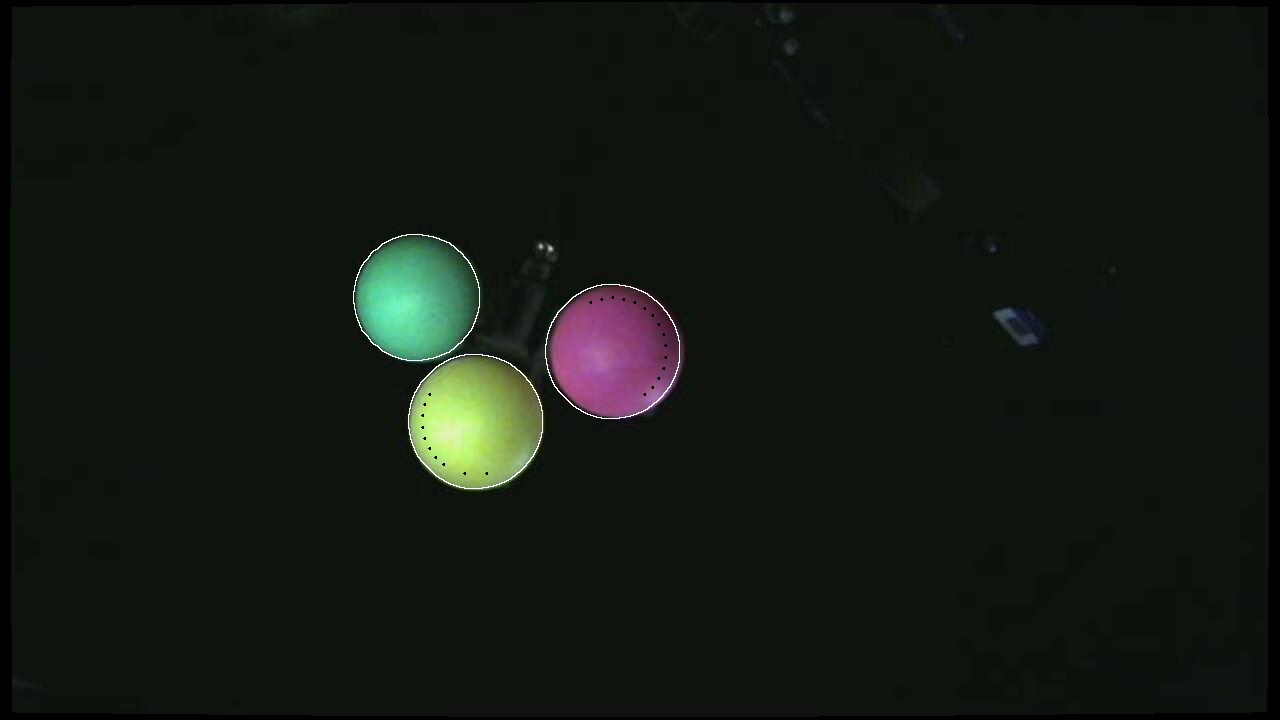
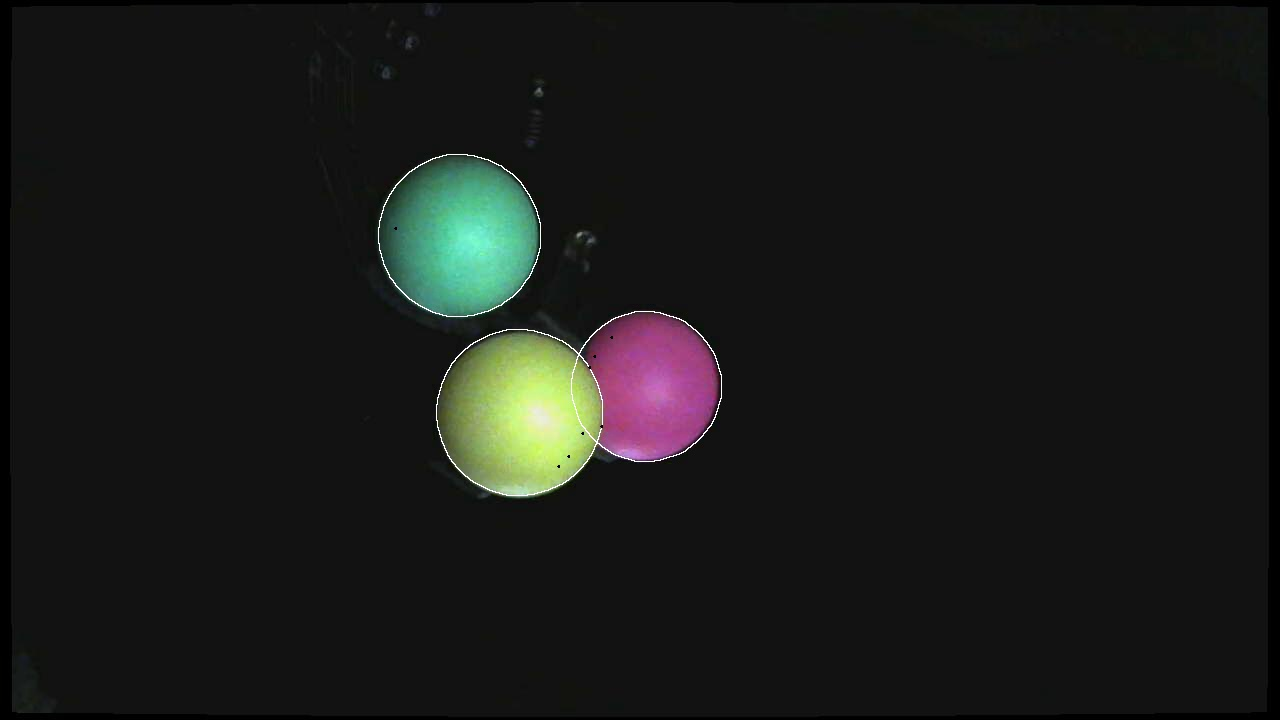
circle center decay version

Changed region(s): [[0.25, 0.2139, 0.5625, 0.7028], [0.7812, 0.4278, 0.8125, 0.4889]]

diff --git a/CV/cv_part/func_circle_detect.py b/CV/cv_part/func_circle_detect.py
@@ -35,7 +35,7 @@ def circle_center_detect_single_ball (img, showplot, circle_radius_min, circle_r
 
     h, w = img.shape[:2]
     
-    img = cv2.GaussianBlur(img, (0,0), 1)
+#    img = cv2.GaussianBlur(img, (0,0), 1)
 
     red = np.float32(img[:,:,2])
     green = np.float32(img[:,:,1])
@@ -57,17 +57,21 @@ def circle_center_detect_single_ball (img, showplot, circle_radius_min, circle_r
     for i in range(6):
         gray_gauss_sum += np.float32(cv2.GaussianBlur(gray, (0,0), i+1))
     gray_gauss_sum = np.uint8(gray_gauss_sum/(i+1))
-    cv2.imshow("gray_gauss_sum",gray_gauss_sum)
-    cv2.waitKey(0)
-    cv2.destroyAllWindows() 
+    
+    if showplot == 1:
+        cv2.imshow("gray_gauss_sum",gray_gauss_sum)
+        cv2.waitKey(0)
+        cv2.destroyAllWindows() 
 
     canny_edge = cv2.Canny(cv2.GaussianBlur(gray_gauss_sum, (0,0), 2),50,50)
     combine = np.zeros((h,w,3))
     for i in range(3):
         combine[:,:,i] += (np.float32(canny_edge)+np.float32(img[:,:,i])).clip(min=0,max=255)
-    cv2.imshow("canny on origin",np.uint8(combine))
-    cv2.waitKey(0)
-    cv2.destroyAllWindows() 
+        
+    if showplot == 1:
+        cv2.imshow("canny on origin",np.uint8(combine))
+        cv2.waitKey(0)
+        cv2.destroyAllWindows() 
 
     if (idx_cam == 0) or (idx_cam == 1):
         channel_ball_2 = np.uint8((3*(red-green)).clip(min=0,max=255)) # red
@@ -93,6 +97,12 @@ def circle_center_detect_single_ball (img, showplot, circle_radius_min, circle_r
     channel_ball_0 = cv2.GaussianBlur(channel_ball_0, (0,0), 1)
     channel_ball_1 = cv2.GaussianBlur(channel_ball_1, (0,0), 1)
     channel_ball_2 = cv2.GaussianBlur(channel_ball_2, (0,0), 1)
+    
+    channel_ball_0 = np.uint8(((np.float32(channel_ball_0)-75*np.ones((h,w)))*255).clip(min=0,max=255))
+    channel_ball_1 = np.uint8(((np.float32(channel_ball_1)-75*np.ones((h,w)))*255).clip(min=0,max=255))
+    channel_ball_2 = np.uint8(((np.float32(channel_ball_2)-75*np.ones((h,w)))*255).clip(min=0,max=255))
+    
+
 
 
 ###############################################################    
@@ -100,6 +110,10 @@ def circle_center_detect_single_ball (img, showplot, circle_radius_min, circle_r
         cv2.imshow("green",channel_ball_0)
         cv2.imshow("yellow",channel_ball_1)
         cv2.imshow("red",channel_ball_2)
+        
+        cv2.imwrite("0green_blured_canny.jpg",channel_ball_0)
+        cv2.imwrite("0yellow_blured_canny.jpg",channel_ball_1)
+        cv2.imwrite("0red_blured_canny.jpg",channel_ball_2)
         #cv2.imshow("show",gray)
         cv2.waitKey(0)
         cv2.destroyAllWindows() 
@@ -149,6 +163,9 @@ def circle_center_detect_single_ball (img, showplot, circle_radius_min, circle_r
                 hough_para2 = hough_para2 - hough_para2_inc
                 hough_para2_inc = hough_para2_inc/2
                 old_num_circles = 0
+            if hough_para2 <= 0:
+                hough_para2 = hough_para2 + hough_para2_inc +0.001
+                hough_para2_inc = hough_para2_inc/2
             if showplot == 1:
                 print("Ball0: Current Hough para2 = " + str(hough_para2))
     circles_info[0][0] = circles[0][0] 
@@ -192,7 +209,10 @@ def circle_center_detect_single_ball (img, showplot, circle_radius_min, circle_r
             except:
                 hough_para2 = hough_para2 - hough_para2_inc
                 hough_para2_inc = hough_para2_inc/2
-                old_num_circles = 0     
+                old_num_circles = 0
+            if hough_para2 <= 0:
+                hough_para2 = hough_para2 + hough_para2_inc +0.001
+                hough_para2_inc = hough_para2_inc/2
             if showplot == 1:
                 print("Ball1: Current Hougg para2 = " + str(hough_para2))
     circles_info[0][1] = circles[0][0] 
@@ -236,6 +256,9 @@ def circle_center_detect_single_ball (img, showplot, circle_radius_min, circle_r
                 hough_para2 = hough_para2 - hough_para2_inc
                 hough_para2_inc = hough_para2_inc/2
                 old_num_circles = 0
+            if hough_para2 <= 0:
+                hough_para2 = hough_para2 + hough_para2_inc +0.001
+                hough_para2_inc = hough_para2_inc/2
             if showplot == 1:
                 print("Ball2: Current Hough para2 = " + str(hough_para2))
     circles_info[0][2] = circles[0][0] 

diff --git a/CV/cv_part/func_camera_info_process.py b/CV/cv_part/func_camera_info_process.py
@@ -13,6 +13,10 @@ info_R_cam2chess = np.loadtxt(info_txt_path + 'info_R_cam2chess.txt')
 info_P_cam = np.loadtxt(info_txt_path + 'info_P_cam.txt')
 info_R_cam = np.loadtxt(info_txt_path + 'info_R_cam.txt')
 
+circle_center_decay = 0.5
+
+showplot = 0
+
 
 class camera_info_definition():
     resolution = np.array([[1280,720]])  #photo resolution
@@ -34,14 +38,15 @@ class camera_info_definition():
     
     Cvector = None #vector of balls center to camera (System coordinate) in one frame
 
-    circle_radius_threshold_decay = 0
-    circle_radius_expand = 3.0 # ball moves per second, the reference radius expand +- 3 pixel  
+    circle_radius_threshold_decay = 0.9
+    circle_radius_expand = 2.0 # ball moves per second, the reference radius expand +- 3 pixel  
     circle_radius_max = None  
     circle_radius_min = None
     
     ball_move_rate_img = None # = dt * ball_move_range_2d (ball center move rate in unit time on image) 
 
     ref_color = None
+    
     
     
 class camera_info:
@@ -80,15 +85,22 @@ class camera_info:
         
         for idx_cam in range(self.num_cam):
             
-            self.cam[idx_cam].img_ball_center, self.cam[idx_cam].img_ball_radius, img_result_list[idx_cam] = f_cd.circle_center_detect_single_ball (img_input_list[idx_cam], 1 , self.cam[idx_cam].circle_radius_min, self.cam[idx_cam].circle_radius_max, self.cam[idx_cam].ref_color, self.num_ball, idx_cam)
+            self.cam[idx_cam].img_ball_center, self.cam[idx_cam].img_ball_radius, img_result_list[idx_cam] = f_cd.circle_center_detect_single_ball (img_input_list[idx_cam], showplot , self.cam[idx_cam].circle_radius_min, self.cam[idx_cam].circle_radius_max, self.cam[idx_cam].ref_color, self.num_ball, idx_cam)
+            
+#            [test] circle center decay
+            try:
+                self.cam[idx_cam].img_ball_center = circle_center_decay * self.cam[idx_cam].img_ball_center_lastframe + (1 - circle_center_decay)*self.cam[idx_cam].img_ball_center
+            except:
+                a = 1
+#            [test]
 
             # all balls have been successfully detected 
             if np.sum(self.cam[idx_cam].img_ball_center)!=0:
                 # add index into effective photo list
                 self.list_eff_cam += [idx_cam]  
                 self.cam[idx_cam].Cvector = self.projection_vector(self.cam[idx_cam].R_cam,self.cam[idx_cam].img_ball_center,self.cam[idx_cam].resolution,self.cam[idx_cam].ps,self.cam[idx_cam].f)
-                # self.cam[idx_cam].circle_radius_max = self.cam[idx_cam].circle_radius_threshold_decay*self.cam[idx_cam].circle_radius_max+(1-self.cam[idx_cam].circle_radius_threshold_decay)*(self.cam[idx_cam].img_ball_radius)
-                # self.cam[idx_cam].circle_radius_min = self.cam[idx_cam].circle_radius_threshold_decay*self.cam[idx_cam].circle_radius_min+(1-self.cam[idx_cam].circle_radius_threshold_decay)*(self.cam[idx_cam].img_ball_radius) 
+                self.cam[idx_cam].circle_radius_max = self.cam[idx_cam].circle_radius_threshold_decay*self.cam[idx_cam].circle_radius_max+(1-self.cam[idx_cam].circle_radius_threshold_decay)*(self.cam[idx_cam].img_ball_radius)
+                self.cam[idx_cam].circle_radius_min = self.cam[idx_cam].circle_radius_threshold_decay*self.cam[idx_cam].circle_radius_min+(1-self.cam[idx_cam].circle_radius_threshold_decay)*(self.cam[idx_cam].img_ball_radius) 
 
         return img_result_list
          

diff --git a/CV/cv_part/func_img_process.py b/CV/cv_part/func_img_process.py
@@ -152,8 +152,8 @@ class img_processor:
                 dt = self.time_str_cur[idx_cam]-self.time_eff_frame[idx_cam] # delta time step
                 # updat reference circle radius
                 for idx_ball in range(self.camera_info.num_ball): 
-                    self.camera_info.cam[idx_cam].circle_radius_max[idx_ball] += 0 #dt*self.camera_info.cam[idx_cam].circle_radius_expand
-                    self.camera_info.cam[idx_cam].circle_radius_min[idx_ball] -= 0 #dt*self.camera_info.cam[idx_cam].circle_radius_expand 
+                    self.camera_info.cam[idx_cam].circle_radius_max[idx_ball] += dt*self.camera_info.cam[idx_cam].circle_radius_expand
+                    self.camera_info.cam[idx_cam].circle_radius_min[idx_ball] -= dt*self.camera_info.cam[idx_cam].circle_radius_expand 
                 
         def unupdate_ref_radius(list_cam_unupdate):
             for i in range(len(list_cam_unupdate)):
@@ -161,8 +161,8 @@ class img_processor:
                 dt = self.time_str_cur[idx_cam]-self.time_eff_frame[idx_cam] # delta time step 
                 # updat reference circle radius
                 for idx_ball in range(self.camera_info.num_ball): 
-                    self.camera_info.cam[idx_cam].circle_radius_max[idx_ball] -= 0 #dt*self.camera_info.cam[idx_cam].circle_radius_expand
-                    self.camera_info.cam[idx_cam].circle_radius_min[idx_ball] += 0 #dt*self.camera_info.cam[idx_cam].circle_radius_expand  
+                    self.camera_info.cam[idx_cam].circle_radius_max[idx_ball] -= dt*self.camera_info.cam[idx_cam].circle_radius_expand
+                    self.camera_info.cam[idx_cam].circle_radius_min[idx_ball] += dt*self.camera_info.cam[idx_cam].circle_radius_expand  
 
 
 
@@ -191,6 +191,7 @@ class img_processor:
                     # ball_center_current = self.camera_info.cam[idx_cam].img_ball_center[idx_ball]
                     # ball_center_lastframe = self.camera_info.cam[idx_cam].img_ball_center_lastframe[idx_ball]
                     # move_distance_2d = np.linalg.norm(ball_center_current - ball_center_lastframe)
+                    
                     move_distance_2d = np.linalg.norm(self.camera_info.cam[idx_cam].img_ball_center[idx_ball] - self.camera_info.cam[idx_cam].img_ball_center_lastframe[idx_ball])
                     
                     # find if image move  

diff --git a/CV/cv_part/test_func_img_process.py b/CV/cv_part/test_func_img_process.py
@@ -29,7 +29,7 @@ img_processor0.load_time_str()
 
 t = time.time()
 
-for iteration in range(0,150):
+for iteration in range(0,40):
     img_processor0.find_next_idx()
     img_processor0.load_img()
     img_processor0.locate_ball(iteration)
